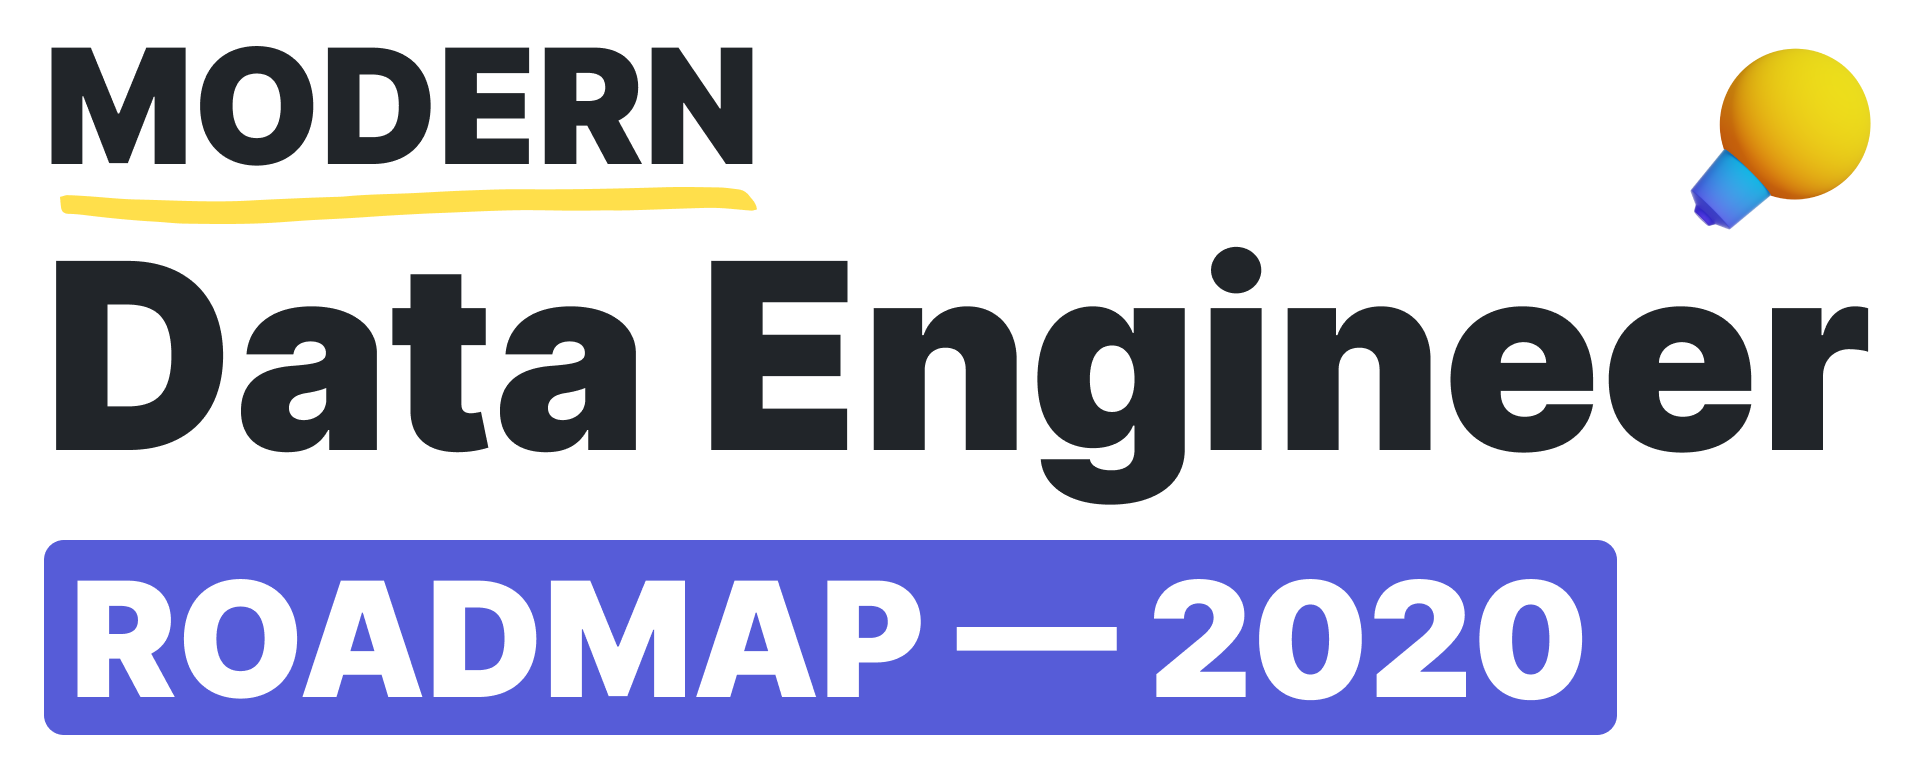
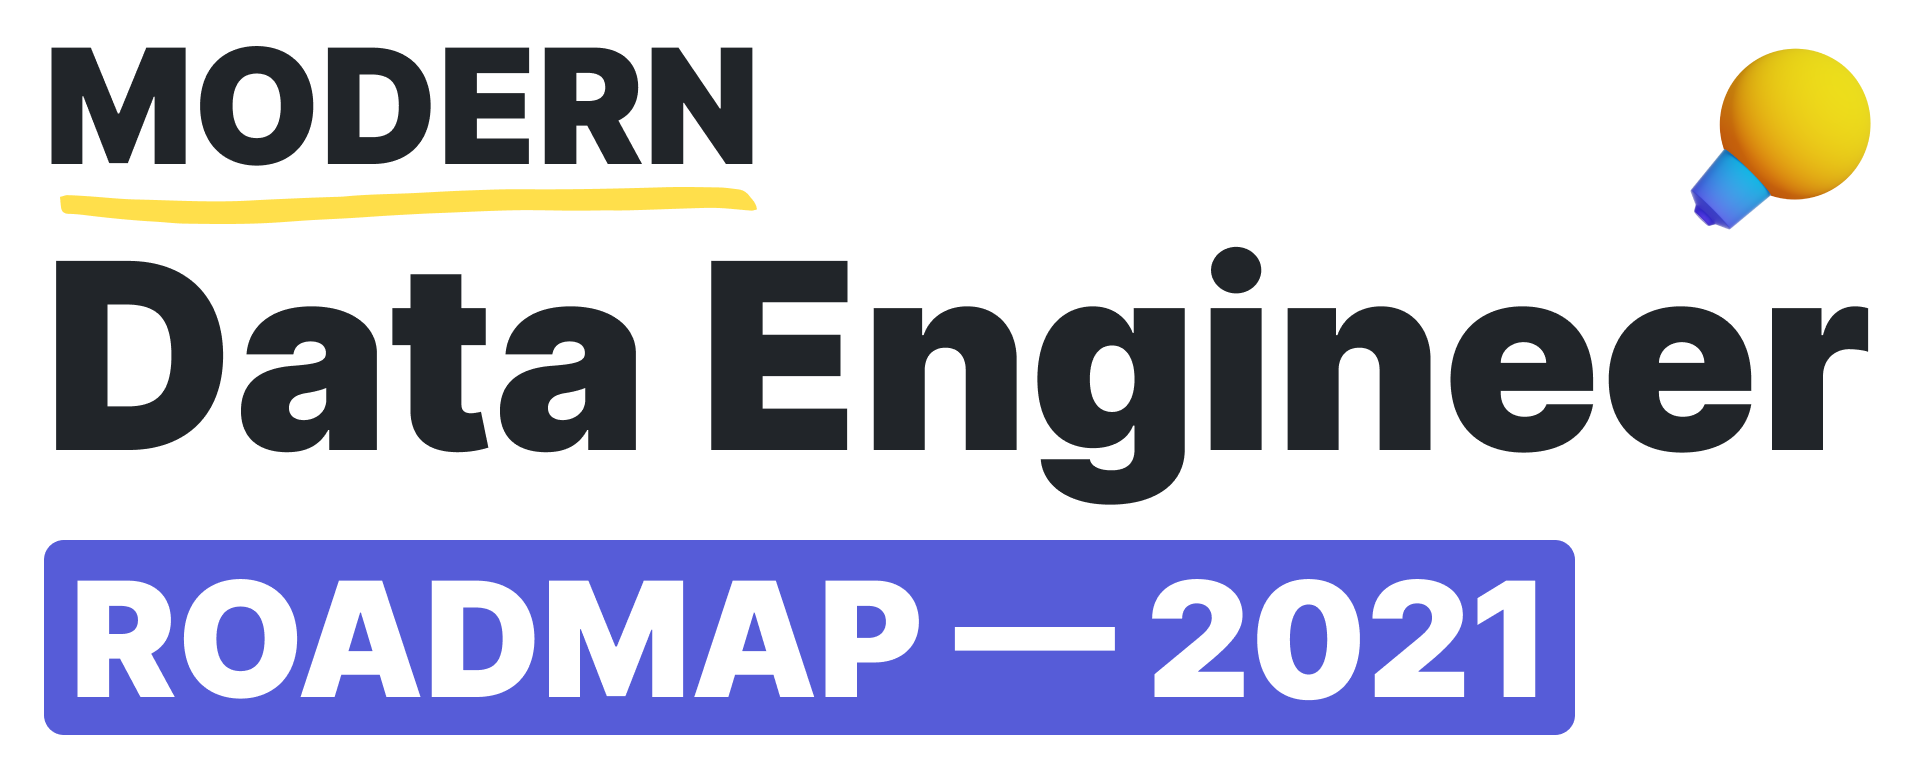
Update year to 2021 (#32)

diff --git a/README.md b/README.md
@@ -1,7 +1,7 @@
 
-![Modern Data Engineer Roadmap 2020](img/title.png)
+![Modern Data Engineer Roadmap 2021](img/title.png)
 
-> Roadmap to becoming a data engineer in 2020
+> Roadmap to becoming a data engineer in 2021
 
 [![Twitter](https://img.shields.io/badge/-Twitter-1DA1F2)](https://twitter.com/datastacktv)
 [![YouTube](https://img.shields.io/badge/-YouTube-FF0000)](https://www.youtube.com/channel/UCQSbqkMlvf_J949HDWxOt7Q)
@@ -37,4 +37,4 @@ Huge thank you to [@whydidithavetobebugs](https://github.com/whydidithavetobebug
 
 ## License 🗞
 
-> Copyright © 2020 Alexandra Abbas — <hello@datastack.tv>
+> Copyright © 2021 Alexandra Abbas — <hello@datastack.tv>
